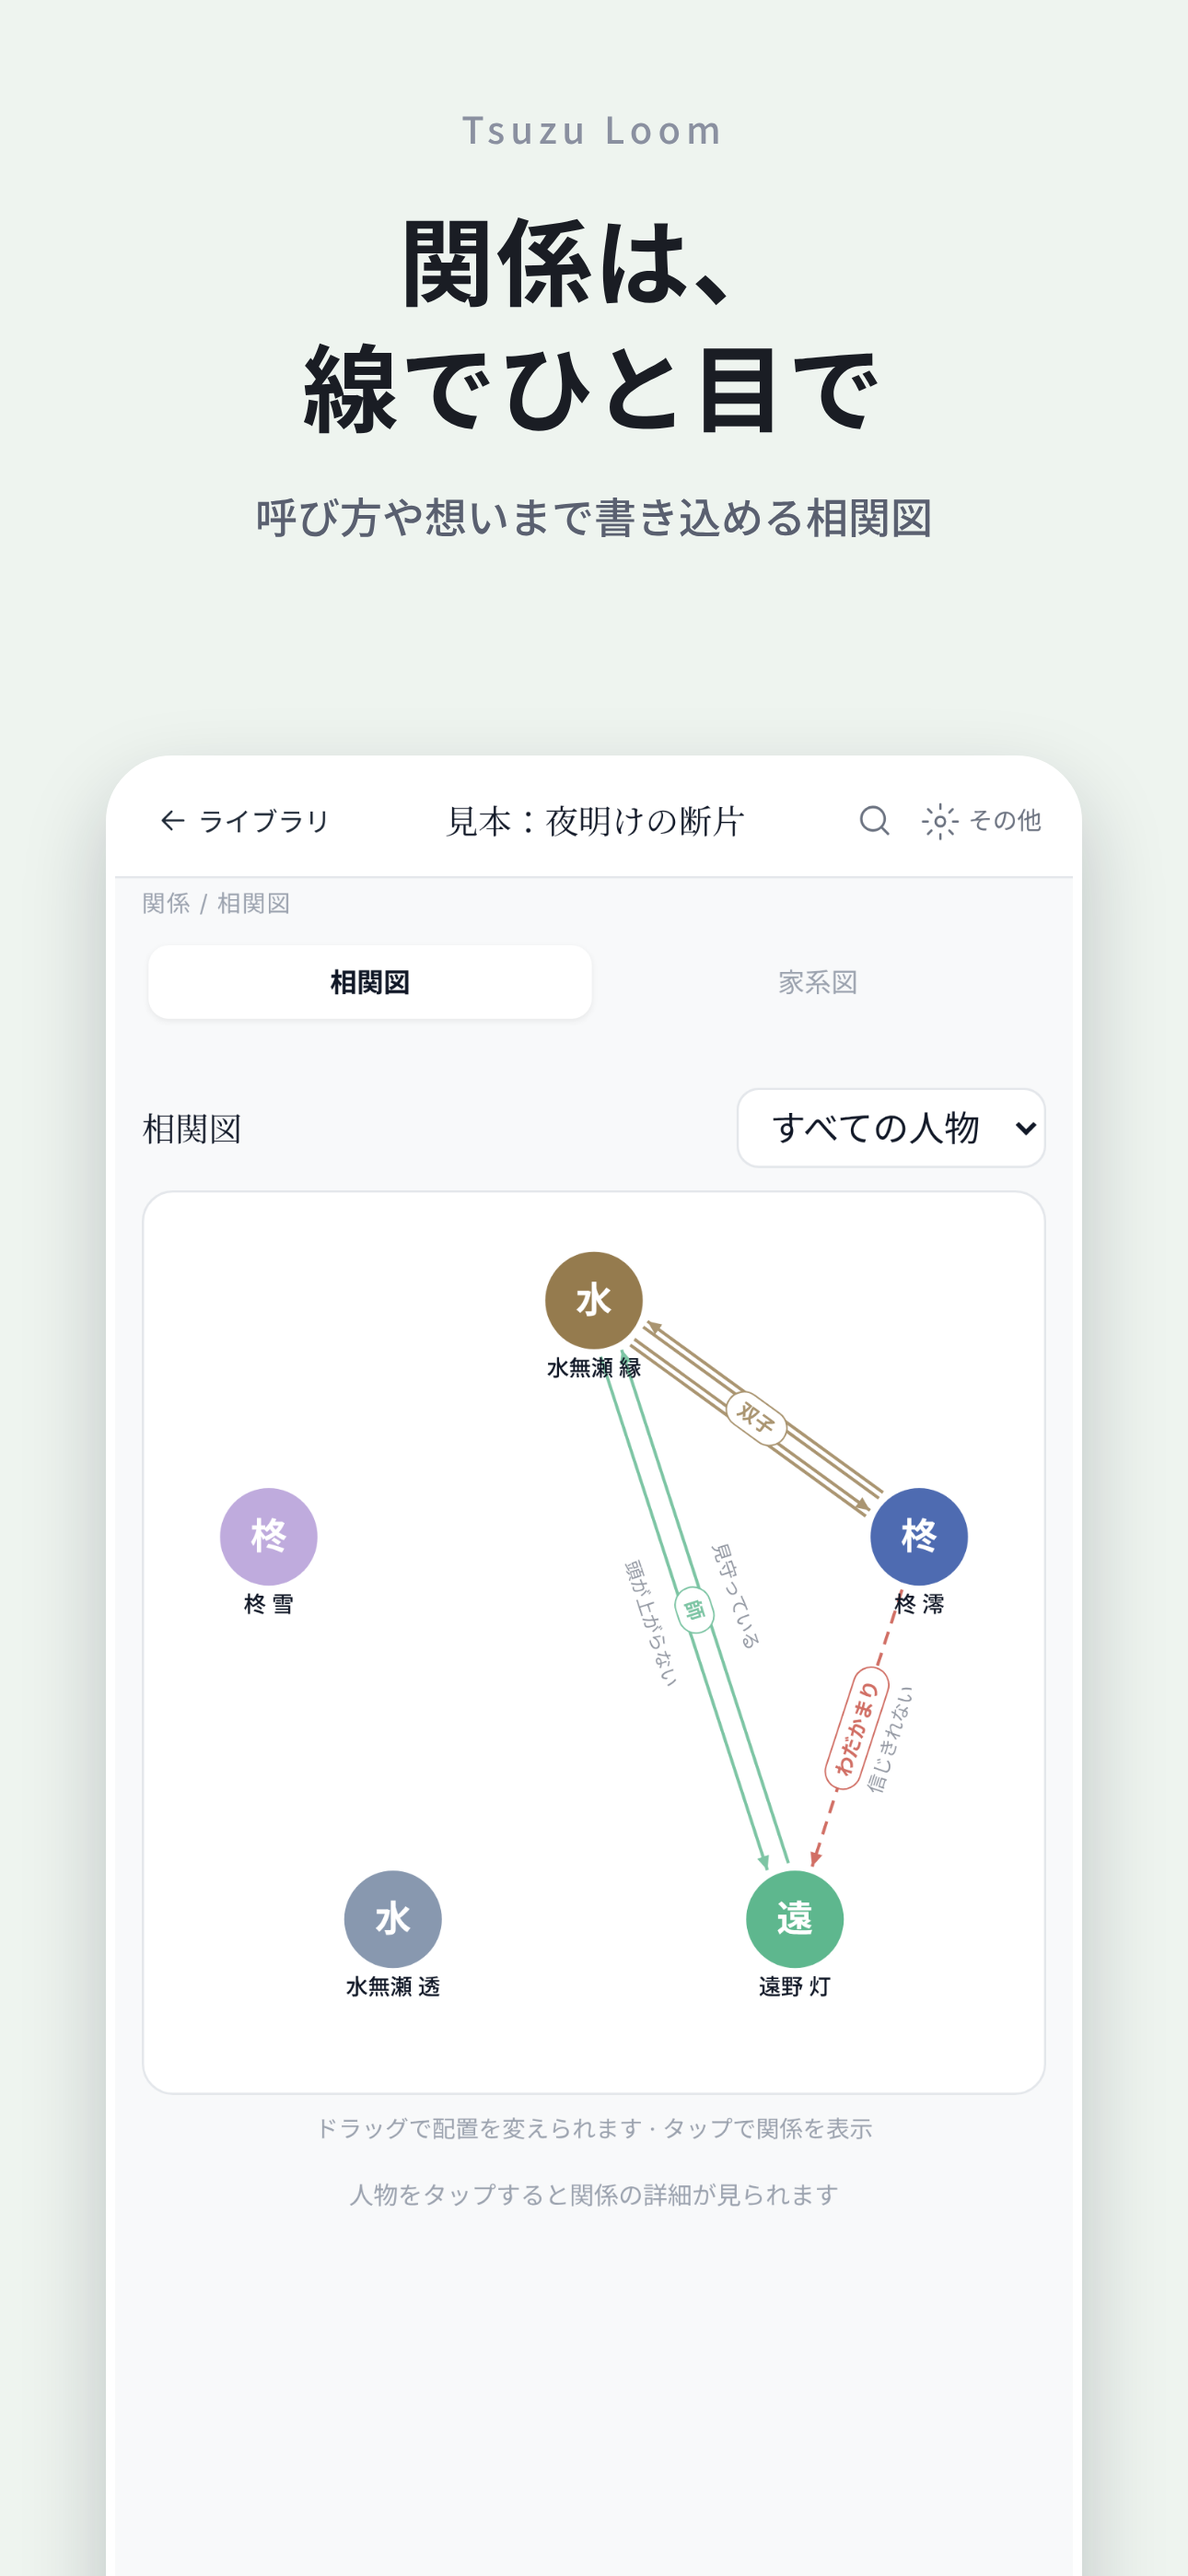
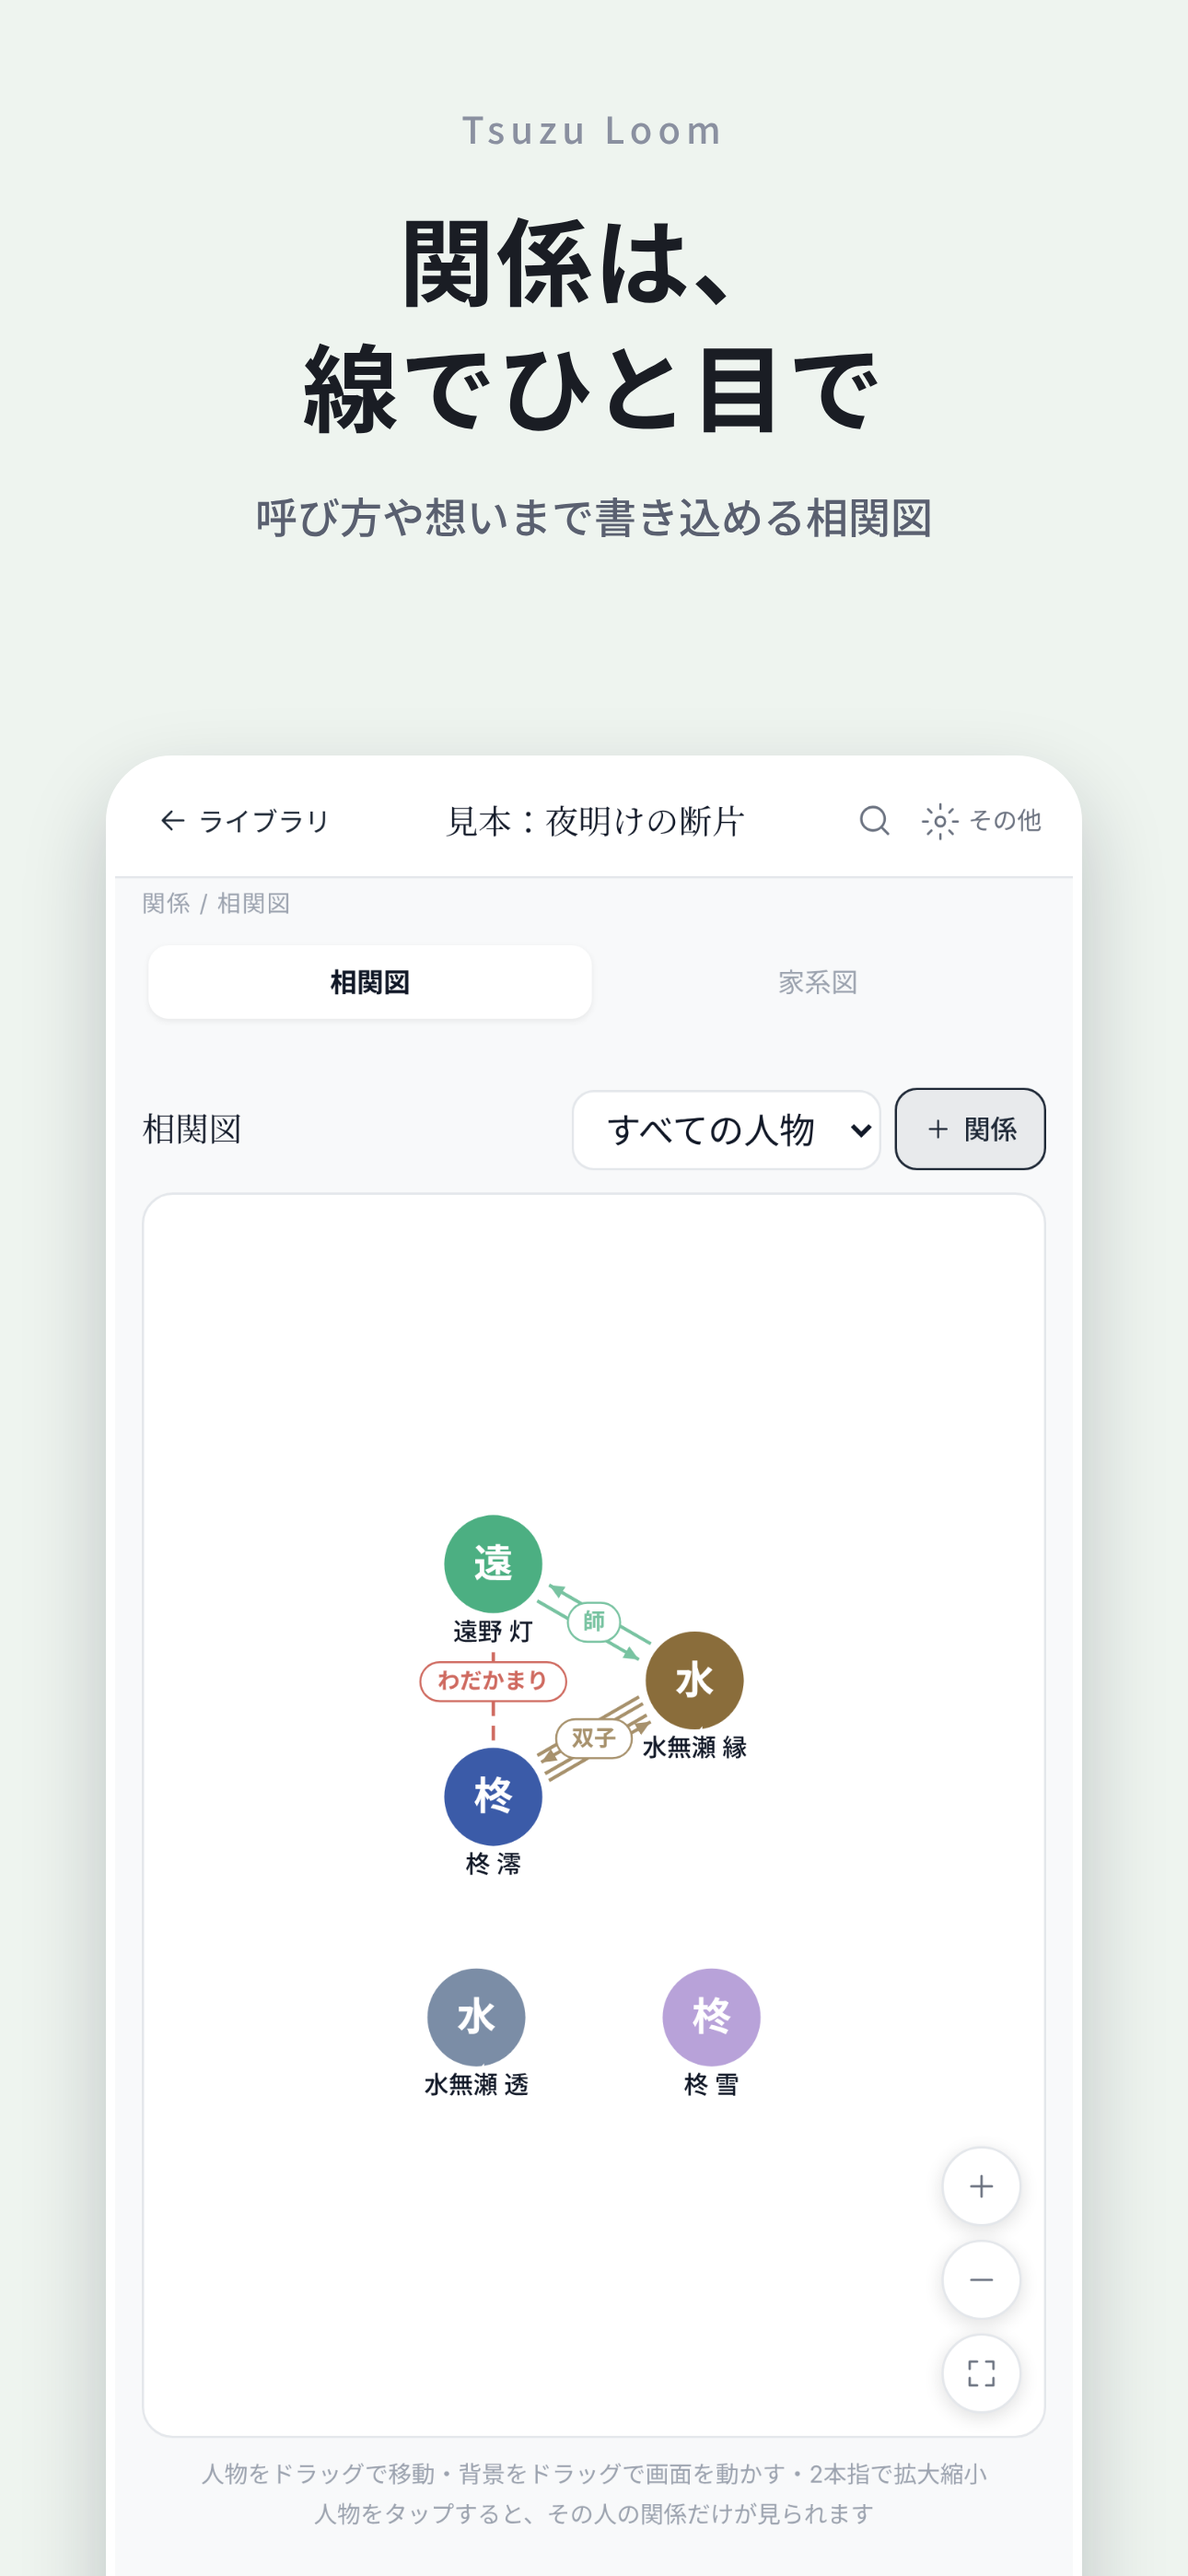
相関図：少人数のときに拡大しすぎないように、スクリーンショット更新
Claude-Session: https://claude.ai/code/session_013SB2FG966nsZxzMCmu5Gui

diff --git a/src/App.jsx b/src/App.jsx
@@ -1502,7 +1502,7 @@ const RelationGraph = ({ data, onOpenChar, onEditRel, onMoveNodes, onResetNodes 
   const fit=()=>{ const el=boxRef.current; if(!el) return; const W=el.clientWidth, H=el.clientHeight;
     const xs=ids.map(i=>pos[i].x), ys=ids.map(i=>pos[i].y);
     const x0=Math.min(...xs)-nodeR-30, x1=Math.max(...xs)+nodeR+30, y0=Math.min(...ys)-nodeR-20, y1=Math.max(...ys)+nodeR+40;
-    const k=Math.max(0.2,Math.min(1.6,Math.min(W/(x1-x0),H/(y1-y0))));
+    const k=Math.max(0.2,Math.min(1.1,Math.min(W/(x1-x0),H/(y1-y0))));
     setView({ k, tx:(W-(x1+x0)*k)/2, ty:(H-(y1+y0)*k)/2 }); };
   useEffect(()=>{ if(n>=2) fit(); },[n,groupFilter,S]);
   const V=view||{k:1,tx:0,ty:0};
